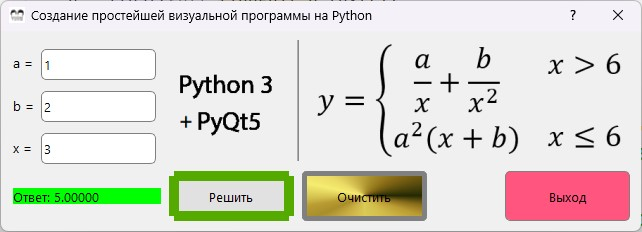
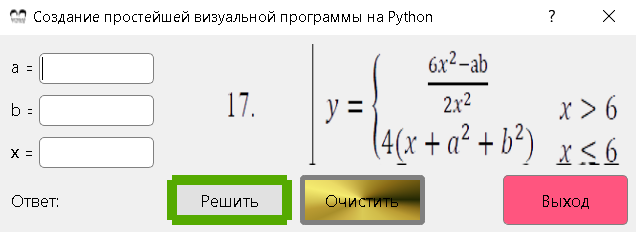
new com

diff --git a/Main.py b/Main.py
@@ -38,9 +38,9 @@ class Main(QDialog):
             b = float(self.lineEdit_b.text())
             x = float(self.lineEdit_x.text())
             if x > 6:
-                answer = (a / x) + b / (x ** 2)
+                answer = (6 * (x ** 2) - a * b) / (x ** 2) / 2
             else:
-                answer = (a ** 2) * (x + b)
+                answer = 4 * (x + a ** 2 + b ** 2)
             self.label_answer.setText('Ответ: ' + str(format(answer, '.5f')))
             self.label_answer.setStyleSheet('   background: rgb(0, 255, 0)')
         except:

diff --git a/README.md b/README.md
@@ -1,3 +1,3 @@
-# Python_3_PyQt5_DEMO
+# Нургумаров Дастан Задание 2 Вариант 17
 Простейший пример оконной программы на Python 3 c PyQt5
 ![srcreenshot](screenshot.png)
